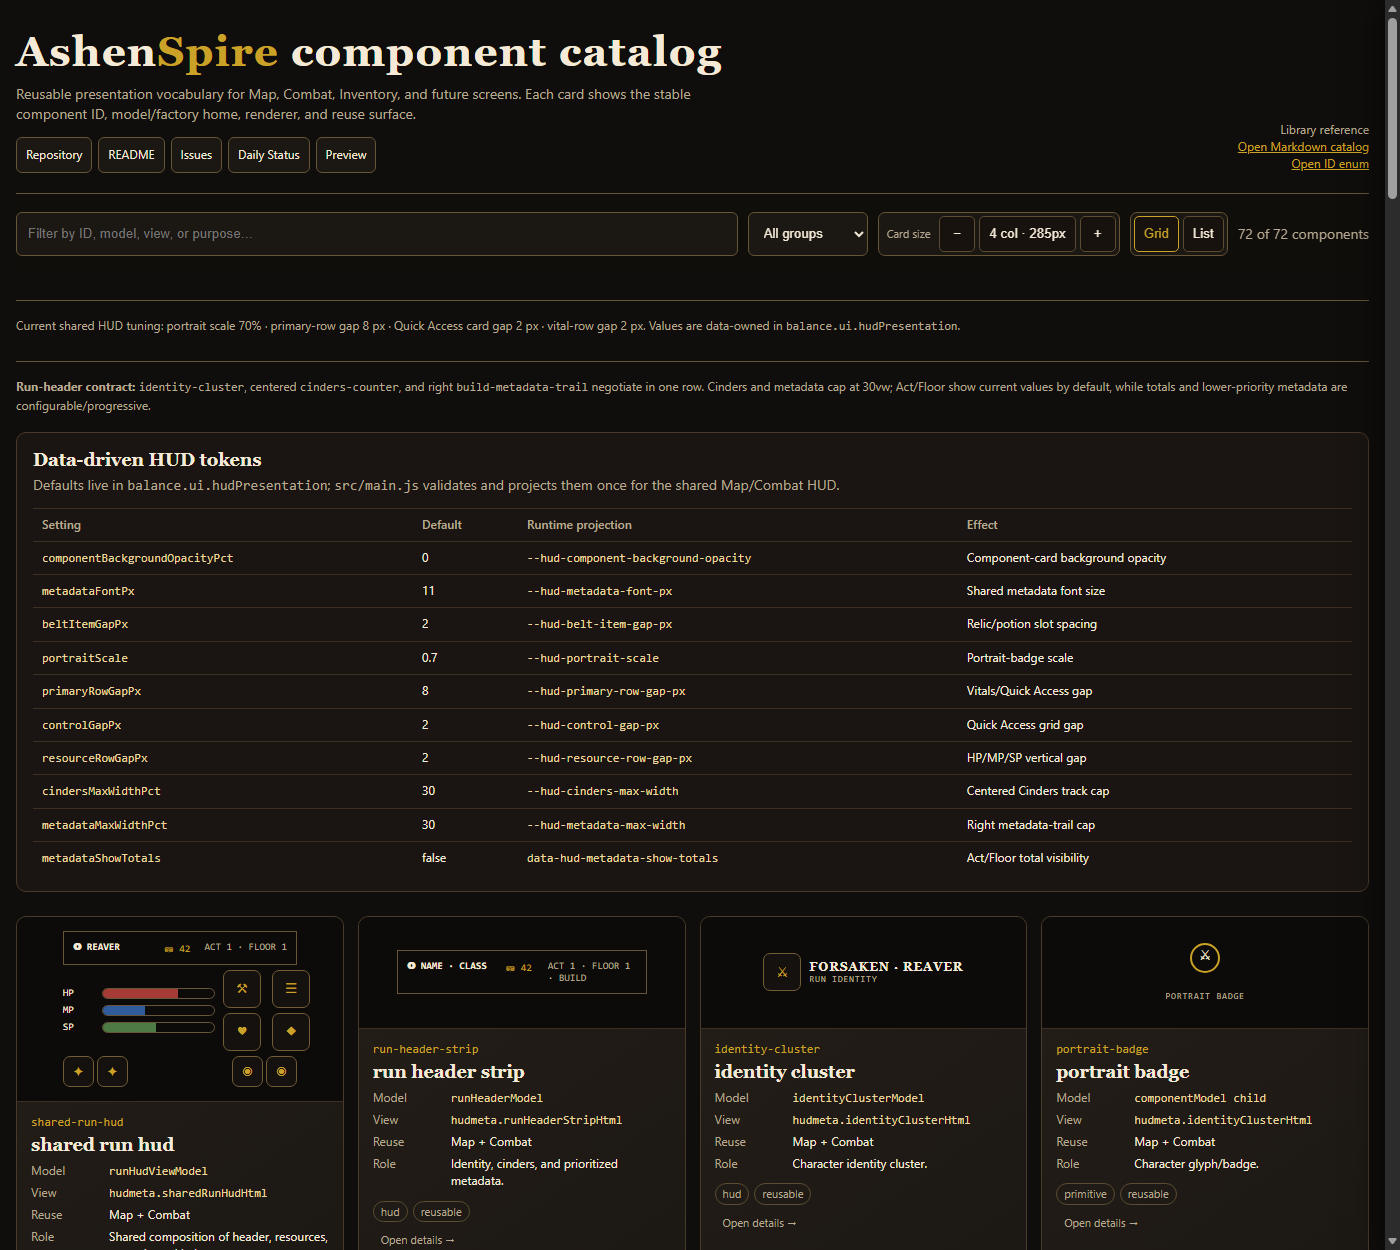
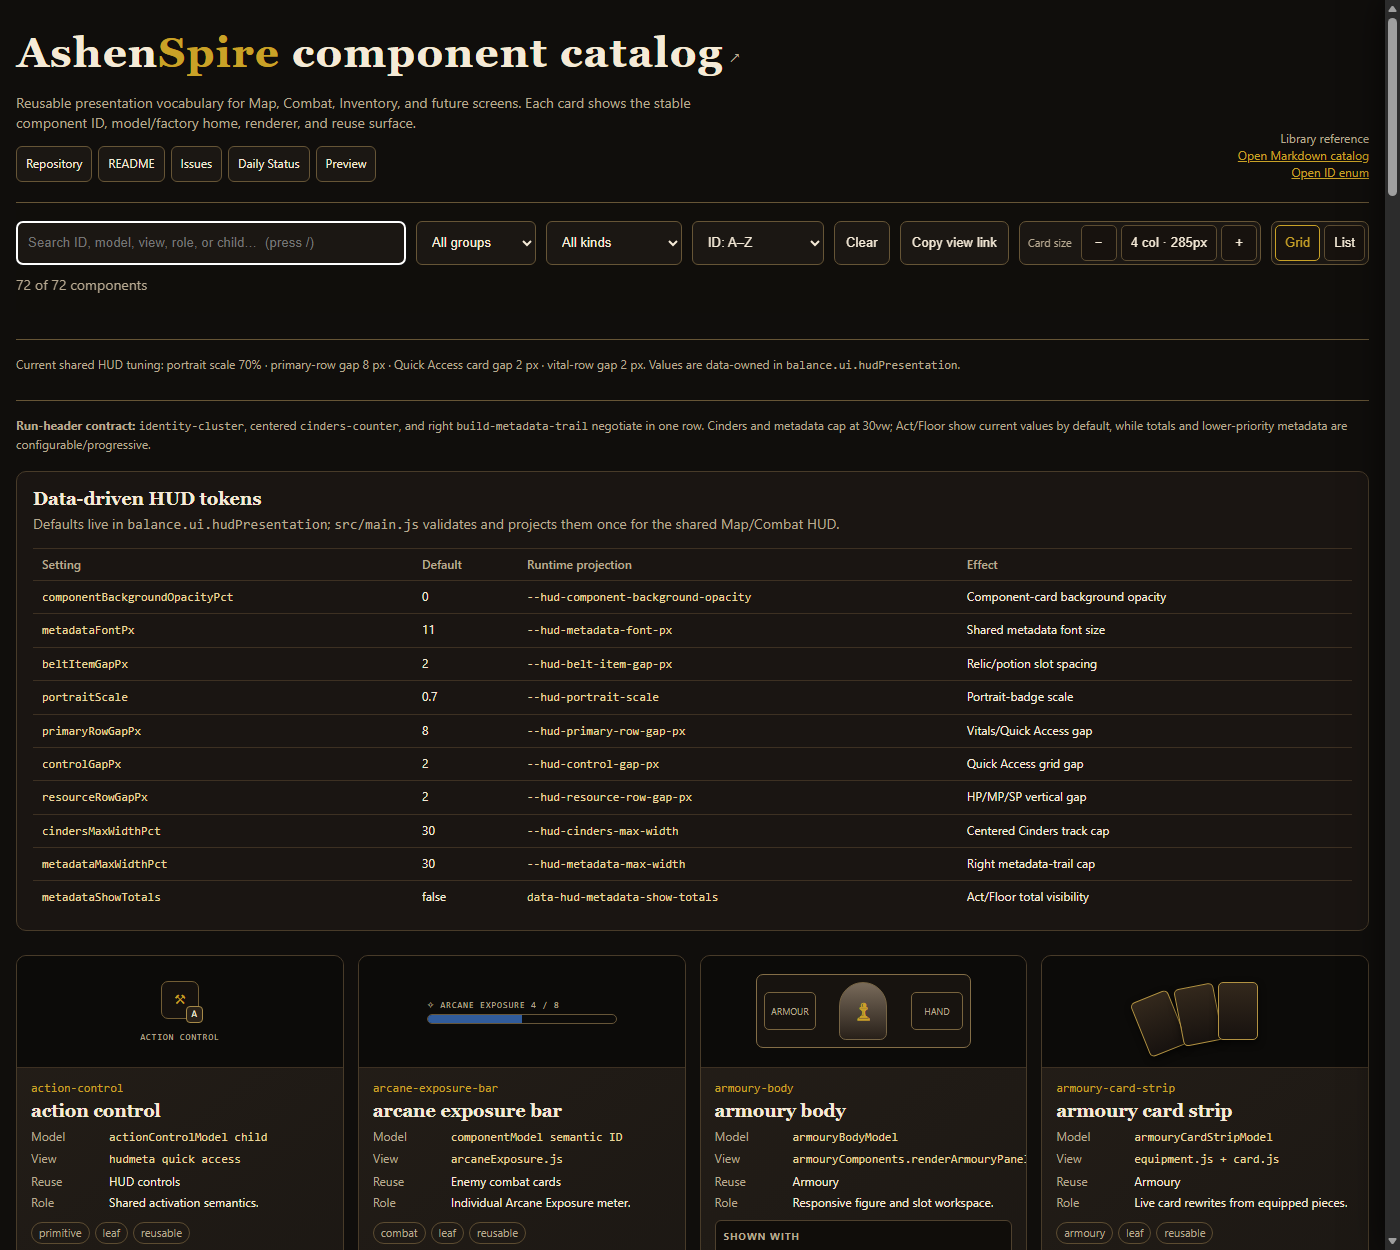
Improve component catalog discovery

diff --git a/docs/component-catalog.html b/docs/component-catalog.html
@@ -12,6 +12,10 @@
     header { display:flex; justify-content:space-between; gap:24px; align-items:end; border-bottom:1px solid var(--line); padding-bottom:20px; }
     h1 { margin:0; font:700 clamp(24px,4vw,42px)/1.1 Georgia,serif; letter-spacing:.03em; }
     h1 span { color:var(--gold); }
+    .title-link { display:inline-block; padding:5px 8px 7px; margin:-5px -8px 0; border:1px solid transparent; border-radius:8px; color:var(--ink); text-decoration:none; }
+    .title-link:hover,.title-link:focus-visible { border-color:var(--gold); background:color-mix(in srgb,var(--panel) 78%,transparent); }
+    .title-link:focus-visible { outline:2px solid var(--gold); outline-offset:3px; }
+    .title-link h1::after { content:' ↗'; color:var(--muted); font:16px ui-sans-serif,system-ui,sans-serif; vertical-align:middle; }
     .lede { max-width:720px; color:var(--muted); margin:10px 0 0; }
     .meta { text-align:right; color:var(--muted); font-size:12px; }
     .meta a { color:var(--gold); }
@@ -27,6 +31,8 @@
     .catalog-controls button { min-width:36px; height:36px; padding:0 9px; border:1px solid #5c4c31; border-radius:5px; background:#17120e; color:var(--ink); cursor:pointer; }
     .catalog-controls button:hover,.catalog-controls button:focus-visible,.catalog-controls button[aria-pressed="true"] { border-color:var(--gold); color:var(--gold); }
     .catalog-controls button:disabled { opacity:.4; cursor:not-allowed; }
+    .tool-button { min-height:44px; padding:7px 11px; border:1px solid var(--line); border-radius:7px; background:var(--panel); color:var(--ink); cursor:pointer; }
+    .tool-button:hover,.tool-button:focus-visible { border-color:var(--gold); color:var(--gold); }
     .density-readout { min-width:84px; text-align:center; }
     .grid { display:grid; grid-template-columns:repeat(auto-fit,minmax(min(100%,var(--catalog-card-min)),1fr)); gap:14px; }
     .grid[data-view="list"] { display:flex; flex-direction:column; }
@@ -157,10 +163,10 @@
 <body>
 <main>
   <header>
-    <div><h1>Ashen<span>Spire</span> component catalog</h1><p class="lede">Reusable presentation vocabulary for Map, Combat, Inventory, and future screens. Each card shows the stable component ID, model/factory home, renderer, and reuse surface.</p><nav class="catalog-nav" aria-label="AshenSpire project links"><a href="https://github.com/cehinds/AshenSpire">Repository</a><a href="https://github.com/cehinds/AshenSpire/blob/dev/README.md">README</a><a href="https://github.com/cehinds/AshenSpire/issues">Issues</a><a href="https://github.com/cehinds/AshenSpire/issues/183">Daily Status</a><a href="https://cehinds.github.io/AshenSpire/AshenSpire.html">Preview</a></nav></div>
+    <div><a class="title-link" href="https://github.com/cehinds/AshenSpire/blob/dev/README.md" aria-label="Open the AshenSpire GitHub README"><h1>Ashen<span>Spire</span> component catalog</h1></a><p class="lede">Reusable presentation vocabulary for Map, Combat, Inventory, and future screens. Each card shows the stable component ID, model/factory home, renderer, and reuse surface.</p><nav class="catalog-nav" aria-label="AshenSpire project links"><a href="https://github.com/cehinds/AshenSpire">Repository</a><a href="https://github.com/cehinds/AshenSpire/blob/dev/README.md">README</a><a href="https://github.com/cehinds/AshenSpire/issues">Issues</a><a href="https://github.com/cehinds/AshenSpire/issues/183">Daily Status</a><a href="https://cehinds.github.io/AshenSpire/AshenSpire.html">Preview</a></nav></div>
     <div class="meta">Library reference<br><a href="COMPONENT-CATALOG.md">Open Markdown catalog</a><br><a href="../src/ui/models/UiComponentId.js">Open ID enum</a></div>
   </header>
-  <div class="tools"><input id="search" type="search" placeholder="Filter by ID, model, view, or purpose…" aria-label="Filter components"><select id="group" aria-label="Filter group"><option value="all">All groups</option><option value="hud">Shared HUD</option><option value="menu">Menus</option><option value="armoury">Armoury</option><option value="inventory">Inventory</option><option value="combat">Combat</option><option value="primitive">Primitives</option></select><div class="catalog-controls" aria-label="Catalog card size"><span>Card size</span><button id="density-less" type="button" aria-label="Smaller cards and more columns">−</button><button id="density-reset" class="density-readout" type="button" aria-label="Reset card size">Medium</button><button id="density-more" type="button" aria-label="Larger cards and fewer columns">+</button></div><div class="catalog-controls" aria-label="Catalog view"><button id="view-grid" type="button" aria-pressed="true">Grid</button><button id="view-list" type="button" aria-pressed="false">List</button></div><span class="count" id="count"></span></div>
+  <div class="tools"><input id="search" type="search" placeholder="Search ID, model, view, role, or child…  (press /)" aria-label="Search components"><select id="group" aria-label="Filter group"><option value="all">All groups</option><option value="hud">Shared HUD</option><option value="menu">Menus</option><option value="armoury">Armoury</option><option value="inventory">Inventory</option><option value="combat">Combat</option><option value="primitive">Primitives</option></select><select id="kind" aria-label="Filter component kind"><option value="all">All kinds</option><option value="composite">Composite only</option><option value="leaf">Leaf only</option></select><select id="sort" aria-label="Sort components"><option value="id-asc">ID: A–Z</option><option value="id-desc">ID: Z–A</option><option value="group">Group, then ID</option><option value="model">Model, then ID</option><option value="view">View, then ID</option></select><button class="tool-button" id="clear-filters" type="button">Clear</button><button class="tool-button" id="copy-view" type="button">Copy view link</button><div class="catalog-controls" aria-label="Catalog card size"><span>Card size</span><button id="density-less" type="button" aria-label="Smaller cards and more columns">−</button><button id="density-reset" class="density-readout" type="button" aria-label="Reset card size">Medium</button><button id="density-more" type="button" aria-label="Larger cards and fewer columns">+</button></div><div class="catalog-controls" aria-label="Catalog view"><button id="view-grid" type="button" aria-pressed="true">Grid</button><button id="view-list" type="button" aria-pressed="false">List</button></div><span class="count" id="count" role="status"></span></div>
   <p class="catalog-footer">Current shared HUD tuning: portrait scale 70% · primary-row gap 8 px · Quick Access card gap 2 px · vital-row gap 2 px. Values are data-owned in <code>balance.ui.hudPresentation</code>.</p>
   <p class="catalog-footer"><strong>Run-header contract:</strong> <code>identity-cluster</code>, centered <code>cinders-counter</code>, and right <code>build-metadata-trail</code> negotiate in one row. Cinders and metadata cap at 30vw; Act/Floor show current values by default, while totals and lower-priority metadata are configurable/progressive.</p>
   <section class="token-panel" aria-labelledby="token-heading">
@@ -358,8 +364,9 @@ const COMPOSITION = Object.freeze({
   'enemy-combatant-frame':['combatant-frame','intent-indicator'],
   'damage-feedback':['guarded-damage-indicator','health-damage-indicator']
 });
-const grid=document.querySelector('#grid'), search=document.querySelector('#search'), group=document.querySelector('#group'), count=document.querySelector('#count');
+const grid=document.querySelector('#grid'), search=document.querySelector('#search'), group=document.querySelector('#group'), kind=document.querySelector('#kind'), sort=document.querySelector('#sort'), count=document.querySelector('#count');
 const drawer=document.querySelector('#detail-drawer'), backdrop=document.querySelector('#detail-backdrop'), closeDetailButton=document.querySelector('#detail-close');
+const clearFilters=document.querySelector('#clear-filters'), copyView=document.querySelector('#copy-view');
 const densityLess=document.querySelector('#density-less'), densityReset=document.querySelector('#density-reset'), densityMore=document.querySelector('#density-more');
 const viewGrid=document.querySelector('#view-grid'), viewList=document.querySelector('#view-list');
 const DENSITY_STEPS=[205,245,285,335,395,465], DEFAULT_DENSITY=2, DENSITY_KEY='ashenspire.ui.component-catalog-density', VIEW_KEY='ashenspire.ui.component-catalog-view';
@@ -368,6 +375,9 @@ const save=(key,value)=>{try{localStorage.setItem(key,String(value));}catch{}};
 let densityIndex=Math.max(0,Math.min(DENSITY_STEPS.length-1,Number(stored(DENSITY_KEY,DEFAULT_DENSITY))||0));
 let catalogView=stored(VIEW_KEY,'grid')==='list'?'list':'grid', wheelLocked=false;
 let detailReturnFocus=null;
+const params=new URLSearchParams(location.search);
+search.value=params.get('q')||''; group.value=params.get('group')||'all'; kind.value=params.get('kind')||'all'; sort.value=params.get('sort')||'id-asc';
+if(!group.value) group.value='all'; if(!kind.value) kind.value='all'; if(!sort.value) sort.value='id-asc';
 function actualColumns(){
   const cards=[...grid.querySelectorAll('article')]; if(!cards.length||catalogView==='list') return 1;
   const firstTop=cards[0].getBoundingClientRect().top;
@@ -382,6 +392,11 @@ function setDensity(next){densityIndex=Math.max(0,Math.min(DENSITY_STEPS.length-
 function setView(next){
   catalogView=next==='list'?'list':'grid'; grid.dataset.view=catalogView; save(VIEW_KEY,catalogView);
   viewGrid.setAttribute('aria-pressed',String(catalogView==='grid')); viewList.setAttribute('aria-pressed',String(catalogView==='list')); updateDensityUi();
+}
+function syncUrl(){
+  const next=new URLSearchParams(location.search); ['q','group','kind','sort'].forEach(key=>next.delete(key));
+  if(search.value.trim()) next.set('q',search.value.trim()); if(group.value!=='all') next.set('group',group.value); if(kind.value!=='all') next.set('kind',kind.value); if(sort.value!=='id-asc') next.set('sort',sort.value);
+  const query=next.toString(); history.replaceState(null,'',`${location.pathname}${query?`?${query}`:''}${location.hash}`);
 }
 function relatedIds(id){
   const related=new Set((COMPOSITION[id]||[]).map(value=>value.split(/\s×|\s→/)[0]).filter(value=>C.some(c=>c.id===value)));
@@ -408,7 +423,17 @@ function openDetails(id,trigger=null){
   drawer.querySelectorAll('[data-related]').forEach(button=>button.onclick=()=>openDetails(button.dataset.related,detailReturnFocus));
   drawer.querySelector('[data-detail-copy]').onclick=async(event)=>{ await navigator.clipboard?.writeText(c.id); event.currentTarget.textContent='Copied'; setTimeout(()=>event.currentTarget.textContent='Copy component ID',900); };
 }
-function render(){ const q=search.value.trim().toLowerCase(), g=group.value; const shown=C.filter(c=>(g==='all'||c.group===g)&&(!q||Object.values(c).some(v=>String(v).toLowerCase().includes(q))||(COMPOSITION[c.id]||[]).some(v=>v.toLowerCase().includes(q)))); grid.innerHTML=shown.map(c=>{const parts=COMPOSITION[c.id];return `<article data-group="${c.group}" data-component="${c.id}" role="button" tabindex="0" aria-label="Open details for ${c.id}"><div class="visual">${V[c.visual]}</div><div class="body"><div class="id">${c.id}</div><h2>${c.id.replaceAll('-',' ')}</h2><dl><dt>Model</dt><dd><code>${c.model}</code></dd><dt>View</dt><dd><code>${c.owner}</code></dd><dt>Reuse</dt><dd>${c.reuse}</dd><dt>Role</dt><dd>${c.purpose}</dd></dl>${parts?`<div class="composition"><strong>Shown with</strong>${parts.map(id=>`<code>${id}</code>`).join('')}</div>`:''}<div class="chips"><span class="chip">${c.group}</span><span class="chip">reusable</span></div><span class="open-detail">Open details →</span></div></article>`}).join(''); count.textContent=`${shown.length} of ${C.length} components`; document.querySelectorAll('[data-component]').forEach(card=>{card.onclick=()=>openDetails(card.dataset.component,card);card.onkeydown=(event)=>{if(event.key==='Enter'||event.key===' '){event.preventDefault();openDetails(card.dataset.component,card);}};}); updateDensityUi(); }
+function render(){
+  const terms=search.value.trim().toLowerCase().split(/\s+/).filter(Boolean), g=group.value, k=kind.value;
+  const shown=C.filter(c=>{
+    const composite=Boolean(COMPOSITION[c.id]?.length), haystack=[...Object.values(c),...(COMPOSITION[c.id]||[])].join(' ').toLowerCase();
+    return (g==='all'||c.group===g)&&(k==='all'||(k==='composite')===composite)&&terms.every(term=>haystack.includes(term));
+  });
+  const compareText=(a,b)=>String(a).localeCompare(String(b),undefined,{sensitivity:'base'});
+  shown.sort((a,b)=>sort.value==='id-desc'?compareText(b.id,a.id):sort.value==='group'?compareText(a.group,b.group)||compareText(a.id,b.id):sort.value==='model'?compareText(a.model,b.model)||compareText(a.id,b.id):sort.value==='view'?compareText(a.owner,b.owner)||compareText(a.id,b.id):compareText(a.id,b.id));
+  grid.innerHTML=shown.map(c=>{const parts=COMPOSITION[c.id];return `<article data-group="${c.group}" data-component="${c.id}" role="button" tabindex="0" aria-label="Open details for ${c.id}"><div class="visual">${V[c.visual]}</div><div class="body"><div class="id">${c.id}</div><h2>${c.id.replaceAll('-',' ')}</h2><dl><dt>Model</dt><dd><code>${c.model}</code></dd><dt>View</dt><dd><code>${c.owner}</code></dd><dt>Reuse</dt><dd>${c.reuse}</dd><dt>Role</dt><dd>${c.purpose}</dd></dl>${parts?`<div class="composition"><strong>Shown with</strong>${parts.map(id=>`<code>${id}</code>`).join('')}</div>`:''}<div class="chips"><span class="chip">${c.group}</span><span class="chip">${parts?'composite':'leaf'}</span><span class="chip">reusable</span></div><span class="open-detail">Open details →</span></div></article>`}).join('');
+  count.textContent=`${shown.length} of ${C.length} components`; document.querySelectorAll('[data-component]').forEach(card=>{card.onclick=()=>openDetails(card.dataset.component,card);card.onkeydown=(event)=>{if(event.key==='Enter'||event.key===' '){event.preventDefault();openDetails(card.dataset.component,card);}};}); syncUrl(); updateDensityUi();
+}
 closeDetailButton.onclick=closeDetails; backdrop.onclick=closeDetails;
 document.addEventListener('keydown',event=>{
   if(!document.body.classList.contains('detail-open')) return;
@@ -420,7 +445,9 @@ document.addEventListener('keydown',event=>{
     else if(!event.shiftKey&&document.activeElement===last){event.preventDefault();first.focus();}
   }
 });
-search.oninput=render; group.onchange=render;
+search.oninput=render; group.onchange=render; kind.onchange=render; sort.onchange=render;
+clearFilters.onclick=()=>{search.value='';group.value='all';kind.value='all';sort.value='id-asc';render();search.focus();};
+copyView.onclick=async()=>{try{await navigator.clipboard.writeText(location.href);copyView.textContent='Copied';setTimeout(()=>copyView.textContent='Copy view link',900);}catch{copyView.textContent='Copy unavailable';}};
 densityLess.onclick=()=>setDensity(densityIndex-1); densityMore.onclick=()=>setDensity(densityIndex+1); densityReset.onclick=()=>setDensity(DEFAULT_DENSITY);
 viewGrid.onclick=()=>setView('grid'); viewList.onclick=()=>setView('list');
 document.addEventListener('wheel',event=>{
@@ -428,6 +455,7 @@ document.addEventListener('wheel',event=>{
   event.preventDefault(); if(wheelLocked) return; wheelLocked=true;
   setDensity(densityIndex+(event.deltaY<0?1:-1)); setTimeout(()=>wheelLocked=false,120);
 },{passive:false});
+document.addEventListener('keydown',event=>{if(event.key==='/'&&!event.ctrlKey&&!event.metaKey&&!event.altKey&&!['INPUT','SELECT','TEXTAREA'].includes(document.activeElement.tagName)){event.preventDefault();search.focus();}else if(event.key==='Escape'&&document.activeElement===search&&search.value){search.value='';render();}});
 window.addEventListener('resize',updateDensityUi); setView(catalogView); render();
 </script>
 </body>

diff --git a/docs/COMPONENT-CATALOG.md b/docs/COMPONENT-CATALOG.md
@@ -13,6 +13,12 @@ columns. View and density preferences persist in the browser. The catalog
 header also links back to the repository, README, issue list, Daily Status, and
 the current GitHub Pages preview.
 
+Search accepts multiple terms and matches each term across the component ID,
+model, renderer/view, role, reuse surface, and cataloged children. Press `/` to
+focus search. Results can be sorted by ID, group, model, or view and filtered to
+composite or leaf components. **Copy view link** preserves the active search,
+group, kind, and sort in a shareable URL; **Clear** resets discovery filters.
+
 Stable IDs live in [`UiComponentId.js`](../src/ui/models/UiComponentId.js). Model
 factories live under [`src/ui/models/`](../src/ui/models/) and the shared HUD
 projection is [`RunHudViewModel.js`](../src/ui/viewModels/RunHudViewModel.js).
